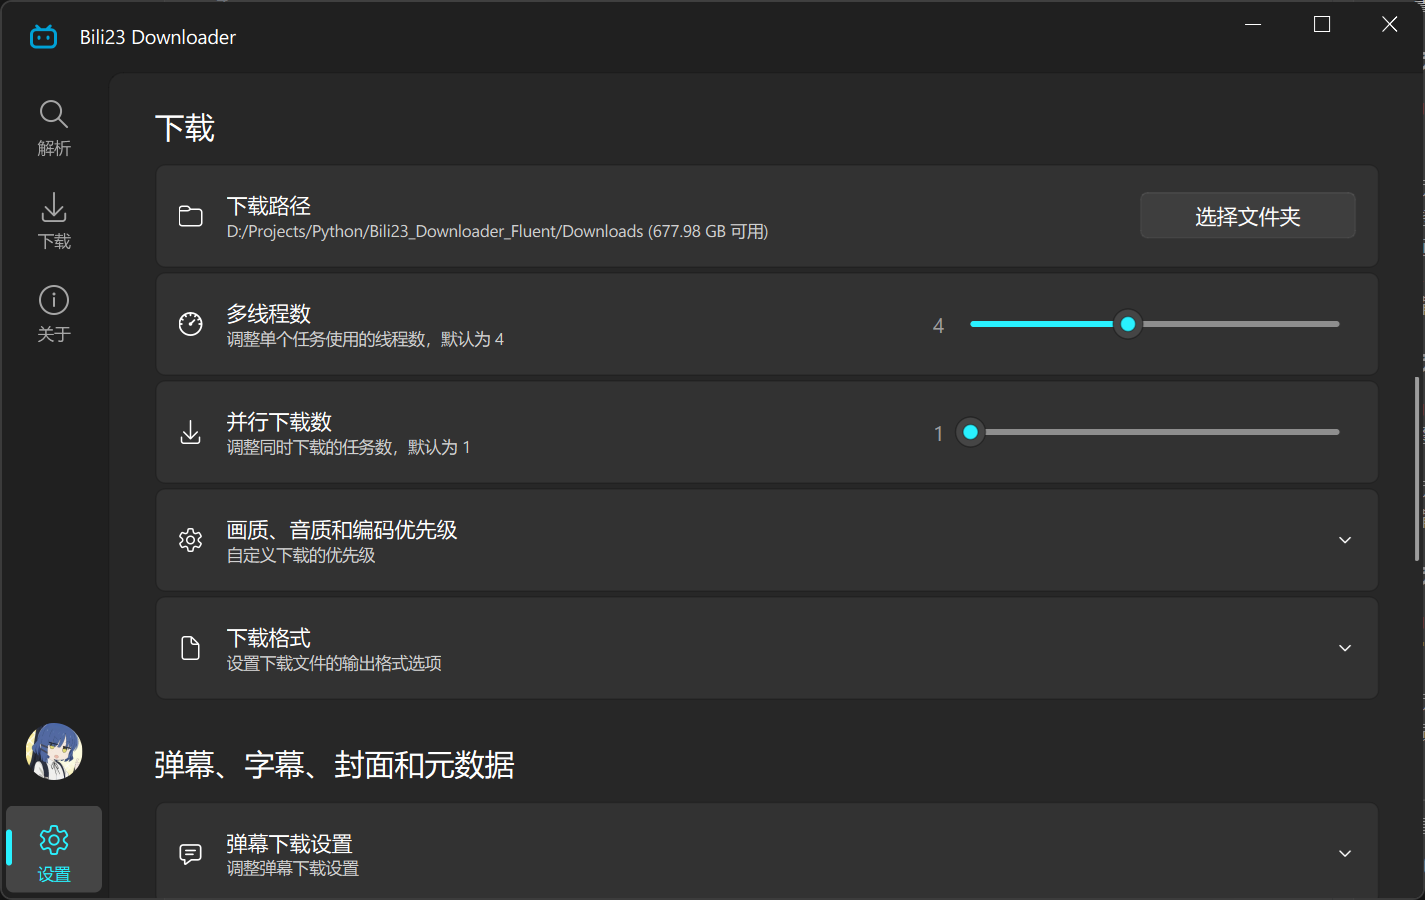
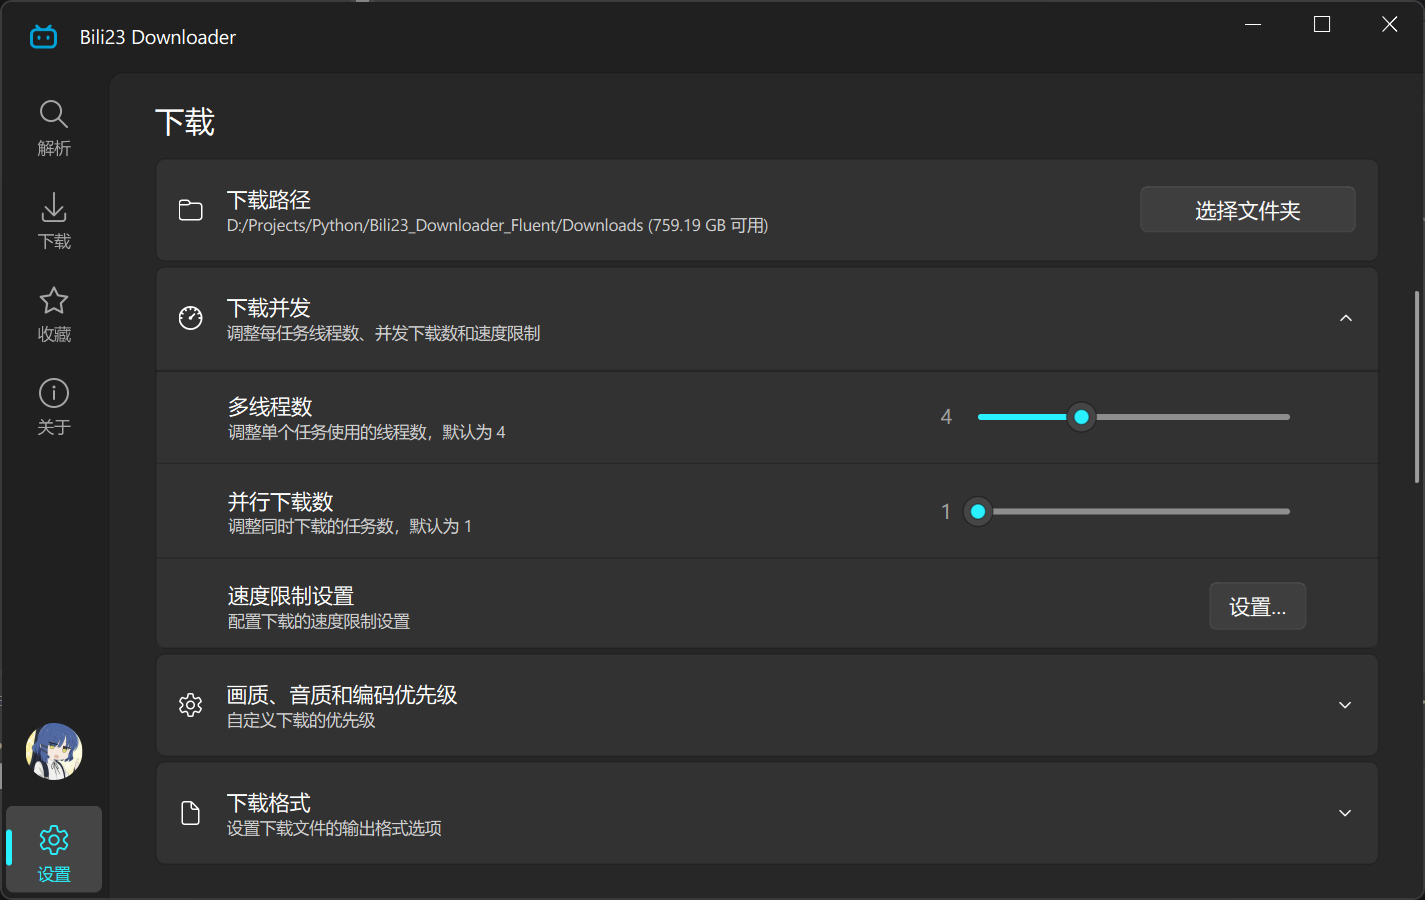
docs: 更新自动解析分页说明

diff --git a/project.data.js b/project.data.js
@@ -1,8 +1,8 @@
 export default {
   load() {
     return {
-      version: '2.00.4',
-      date: '2026-05-04'
+      version: '2.00.5',
+      date: '2026-05-27'
     }
   }
 }

diff --git a/doc/auto-parse-page.md b/doc/auto-parse-page.md
@@ -1,0 +1,21 @@
+# 自动解析分页
+
+当你解析收藏夹、个人空间、历史记录、稍后再看等分页类型链接时，可以启用自动解析分页功能。它支持一键解析全部分页，也支持只解析指定的页码范围，适合批量下载场景。
+
+## 触发入口
+该功能入口如图所示，位于底部分页组件右侧，点击"···"按钮将弹出菜单，选择"自动解析分页"即可进入。
+<img src="./pic/auto_parse_page_trigger_entry.png" alt="触发入口示意图">
+
+## 功能说明
+<img src="./pic/auto_parse_page.png" alt="自动解析分页示意图">
+
+结合图中的选项，你可以按需控制以下行为：
+
+- **解析范围**：选择解析全部分页，或仅解析第 X 页到第 Y 页。
+- **解析间隔**：自定义每次分页解析之间的等待时间，降低触发风控的概率。
+- **解析后处理**：可选择在每页解析完成后自动加入下载列表。
+- **弹窗行为**：可设置是否每次都自动显示该对话框，方便重复使用。
+
+::: warning ⚠️ 注意
+由于B站风控机制，分页过多、频率过快可能导致解析失败，并封禁IP，请谨慎使用！
+:::

diff --git a/doc/faq.md b/doc/faq.md
@@ -3,6 +3,10 @@
 
 ## 下载问题
 
+::: details 能下载抖音、快手、小红书等其他平台的视频吗？
+不支持。本软件专为下载哔哩哔哩平台视频而设计，无法解析或下载其他平台的视频内容。
+:::
+
 ::: details 为什么我只能下载 480P 画质的视频？
 未登录状态下，B站接口限制最高只能获取 480P 画质。  
 **解决方法**：请在软件内**登录你的哔哩哔哩账号**后再进行解析和下载。
@@ -34,6 +38,15 @@
 - **方法二**：在程序设置中，将兼容性最广的 **AVC (H.264)** 拖拽到列表顶部，然后重新下载该视频。
 
 <img src="./pic/custom_codec_priority.png" alt="自定义编码优先级设置">
+:::
+
+::: details 为什么下载的视频外面还有一层文件夹？为什么下载的视频顺序是乱的？
+这是因为程序使用了预设的命名规则，你可以在设置中按个人喜好修改命名规则。  
+
+<img src="./pic/custom_naming_rule.png" alt="自定义命名规则设置">
+
+有关命名规则的详细说明请参考 [命名规则](./advanced-usage.md#命名规则) 一节。
+
 :::
 
 ## Windows 用户常见问题

diff --git a/doc/basic-usage.md b/doc/basic-usage.md
@@ -23,11 +23,11 @@
 在首页的链接输入框内粘贴你想要下载的 B 站链接，点击 **[解析]** 按钮即可获取视频列表。
 
 ::: info 📌 支持解析的链接类型
-- **常规投稿**：单个视频、分P视频、合集视频
+- **常规投稿**：单个视频、分P视频、合集视频、互动视频
 - **影视综类**：剧集（番剧、电影、纪录片、国创、电视剧、综艺）
 - **精选栏目**：每周必看
-- **聚合目录**：公开收藏夹、UP 主个人空间网页
-- **其他格式**：付费课程（仅限未 DRM 加密部分）、`b23.tv` 等防红短链接
+- **聚合目录**：公开收藏夹、UP 主个人空间、追番追剧、订阅合集、稍后再看、历史记录
+- **其他格式**：付费课程（仅限未 DRM 加密部分）、`b23.tv` 等短链接
 :::
 
 ### 第二步：选择与确认下载

diff --git a/doc/about.md b/doc/about.md
@@ -12,6 +12,6 @@
 
 除日常的代码维护外，处理复杂环境以及重构发布都耗费了大量的时间与精力。如果软件确实帮到了你的大忙，你也可以选择通过下方赞助码请我喝杯咖啡。**这也是对为爱发电最实在的认可！**
 
-<div align="center">
-  <img src="./pic/sponsor.png" alt="赞助二维码" style="width: 300px; margin: 10px 0; border-radius: 8px;">
+<div style="display: flex; gap: 20px; flex-wrap: wrap; justify-content: center; margin-top: 20px;">
+  <img src="./pic/sponsor_weixin.png" alt="微信赞助二维码" style="width: 300px; margin: 10px 0; border-radius: 8px;">
 </div>